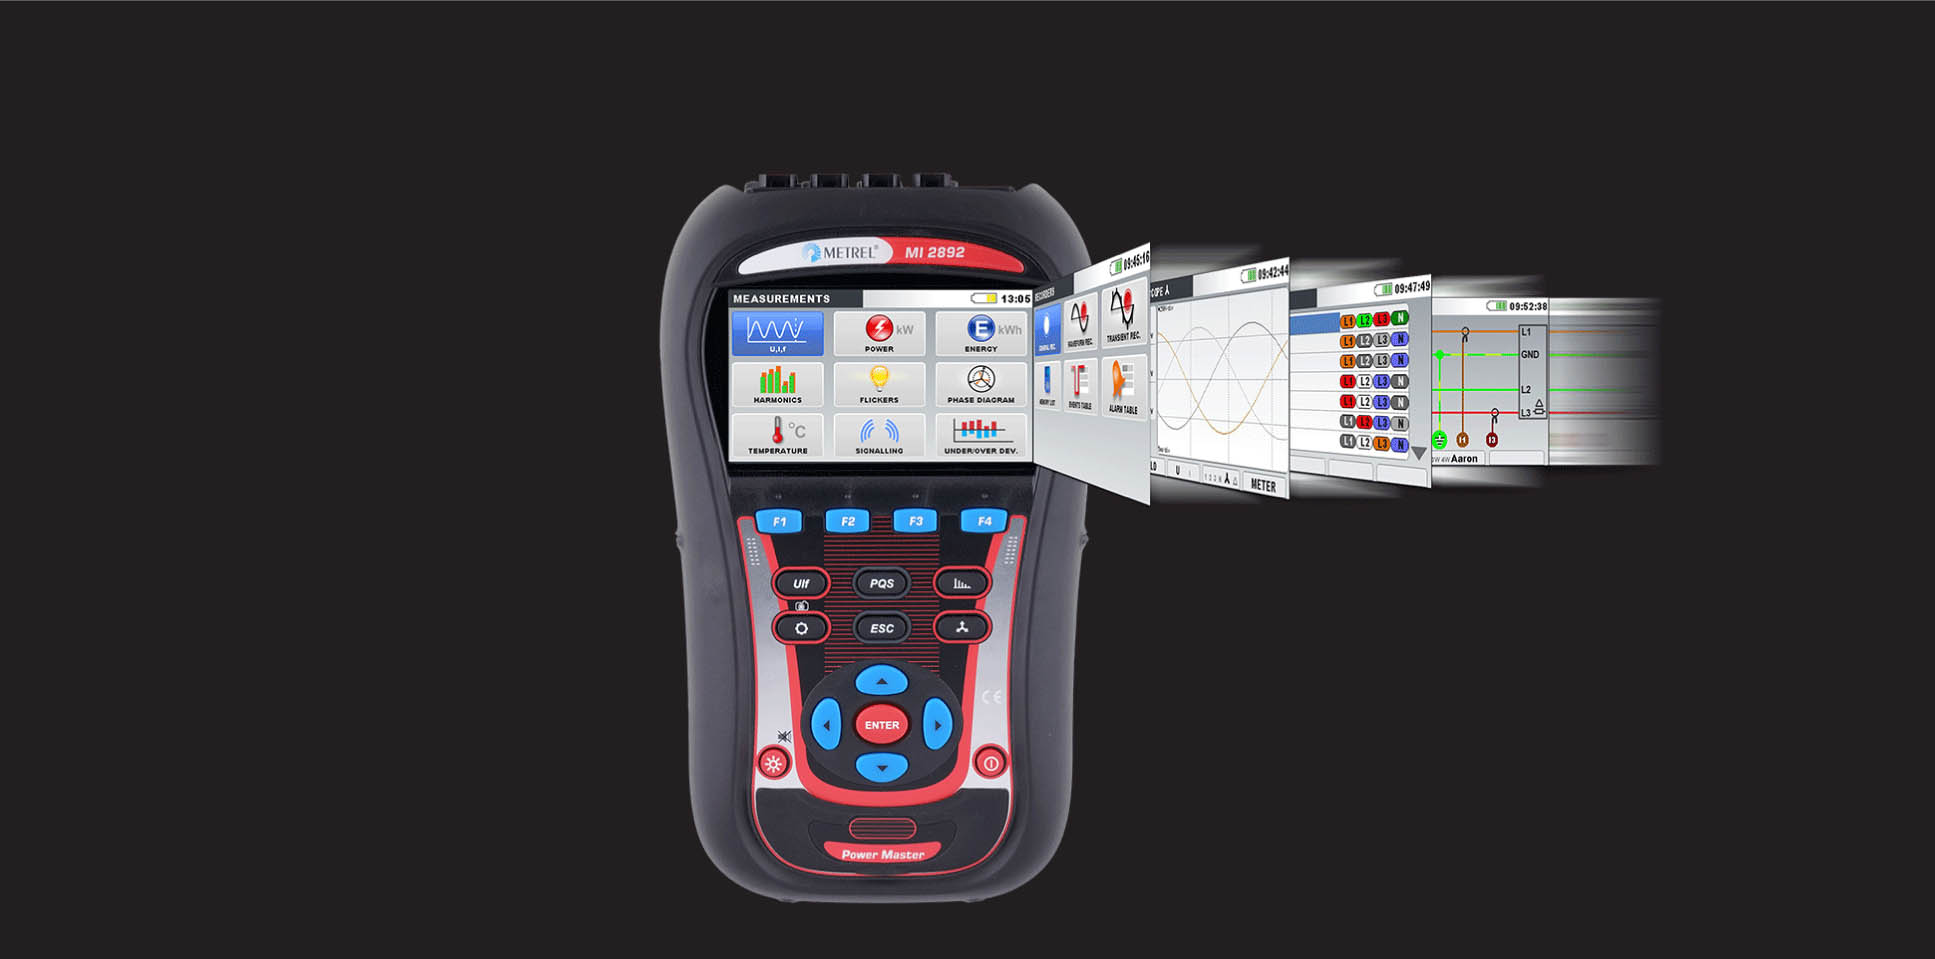
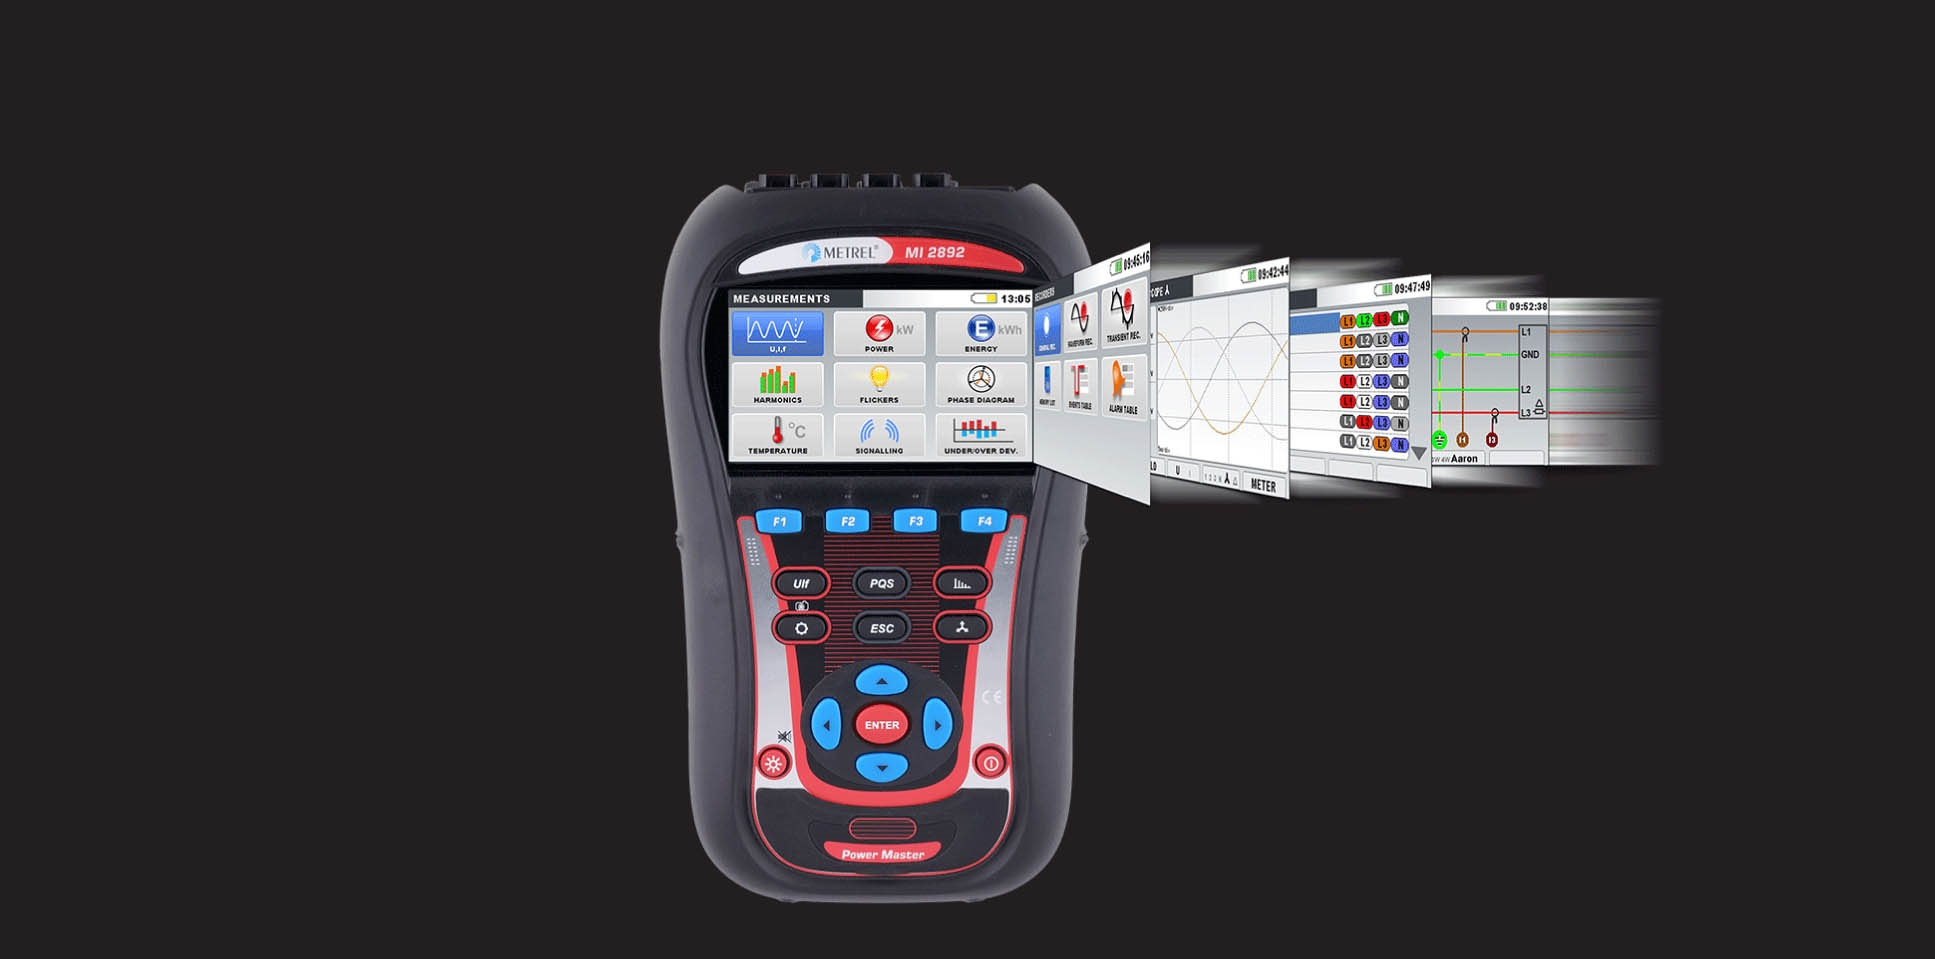
desktop scroll animation background img fix

diff --git a/index.html b/index.html
@@ -132,7 +132,7 @@
                     </div>
                     <div id="scroll-animation-container" class="scroll-animation">
                         <div class="scroll-animation-container__inner">
-                            <img class="analyser-features" src="./assets/images/analyser-features-desktop.png" alt="power analyser features" />
+                            <img class="analyser-features" src="./assets/images/analyser-features-desktop.jpg" alt="power analyser features" />
                         </div>
                         <div class="label-container">
                             <img class="label" src="./assets/images/features-label2.png" alt="easily accessible terminals" />
